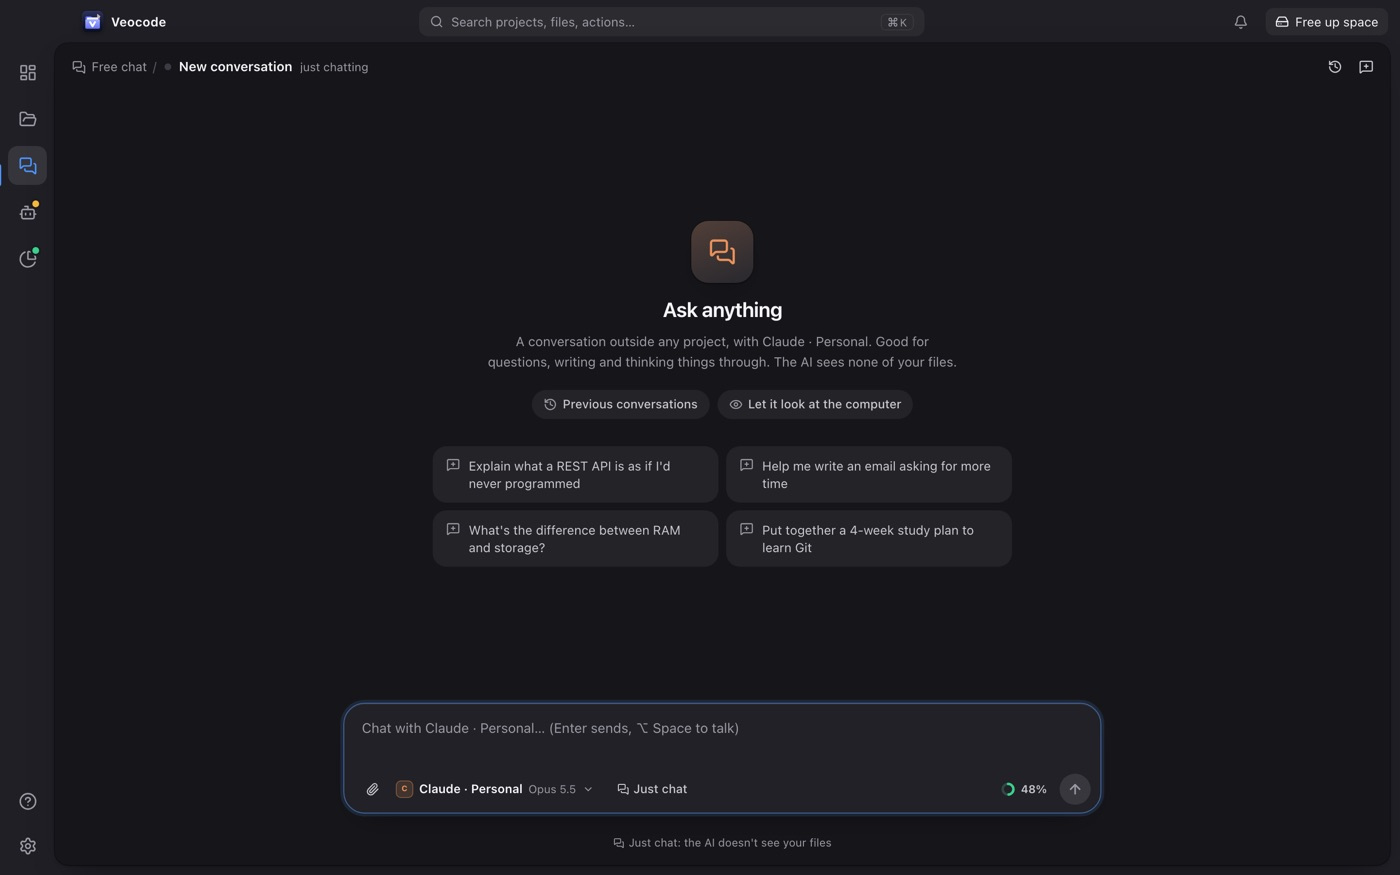
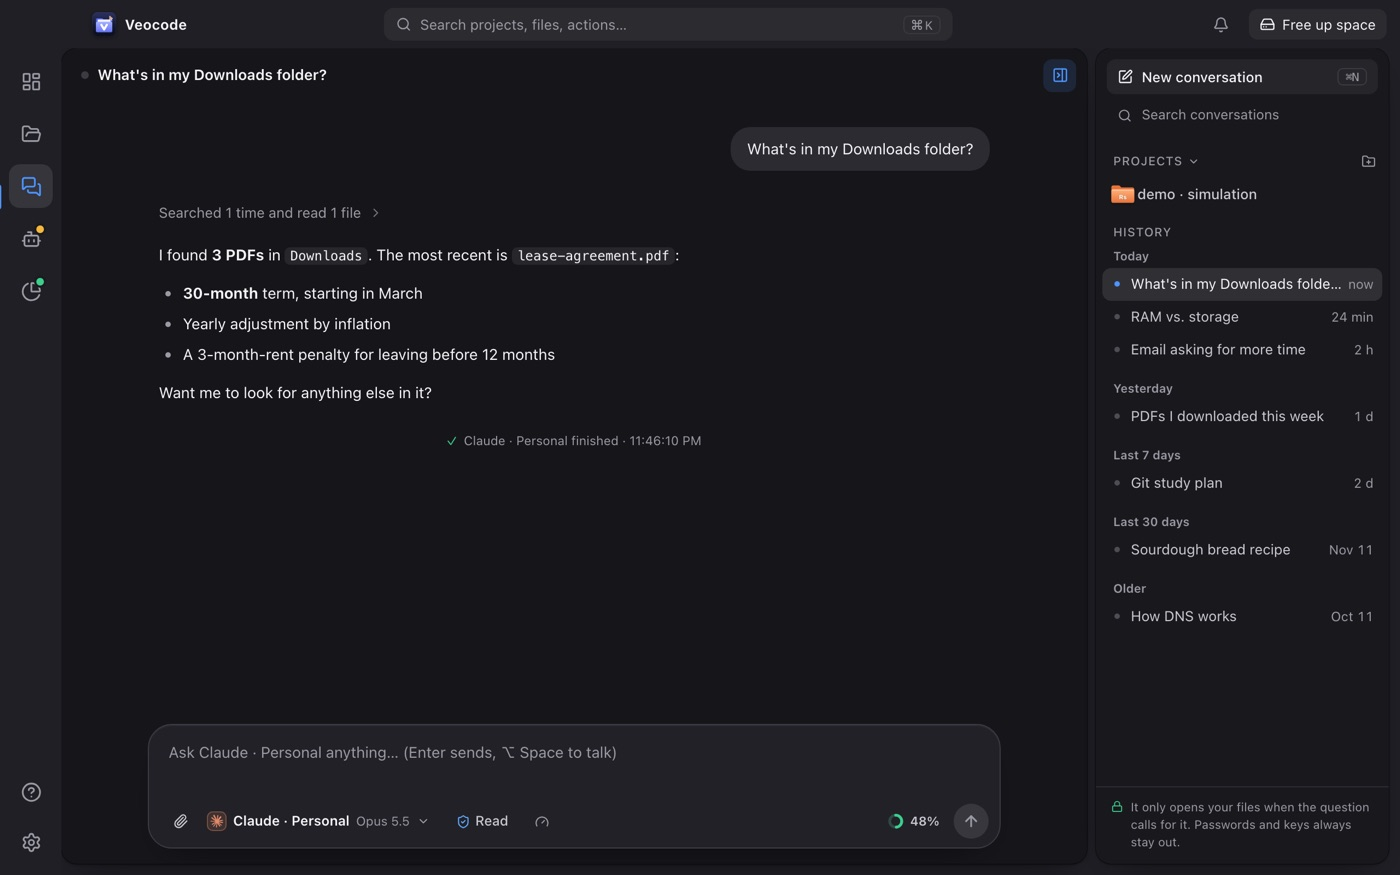
Veocode 0.7.0: browser panel, redesigned free chat
- apps.js points to v0.7.0.
- Projects list mentions the browser panel (pick an element, draw, the AI
  using the same browser).
- Free chat copy no longer describes the old "just talk / read" modes; new
  screenshot with the right panel.
- Cache-busters bumped for apps.js, strings.js and the chat shot.

diff --git a/veocode/strings.js b/veocode/strings.js
@@ -40,6 +40,8 @@ window.WITCH_STRINGS = Object.freeze({
   "Mapa do projeto: as áreas do código em nuvens coloridas, os arquivos como pontos e as ligações entre eles": ["Project map: the code's areas as colored clouds, files as points and the links between them", "Mapa del proyecto: las áreas del código en nubes de color, los archivos como puntos y los enlaces entre ellos", "Карта проекта: области кода — цветные облака, файлы — точки, и связи между ними"],
   "Chat dentro do app": ["Chat inside the app", "Chat dentro de la app", "Чат внутри приложения"],
   ": Claude Code, DeepSeek, APIs compatíveis com OpenAI ou Ollama, na pasta do projeto.": [": Claude Code, DeepSeek, OpenAI-compatible APIs or Ollama, in the project folder.", ": Claude Code, DeepSeek, APIs compatibles con OpenAI u Ollama, en la carpeta del proyecto.", ": Claude Code, DeepSeek, API, совместимые с OpenAI, или Ollama — в папке проекта."],
+  "Navegador para conferir": ["A browser to check the work", "Navegador para revisar", "Браузер для проверки"],
+  ": escolha um elemento ou risque a página e mande para a conversa. A IA usa o mesmo navegador.": [": pick an element or draw on the page and send it to the conversation. The AI uses the same browser.", ": elige un elemento o dibuja sobre la página y envíalo a la conversación. La IA usa el mismo navegador.", ": выберите элемент или порисуйте на странице и отправьте в разговор. ИИ пользуется тем же браузером."],
   "Nível de acesso de verdade": ["Real access levels", "Nivel de acceso de verdad", "Настоящие уровни доступа"],
   ": Leitura, Sugerir, Editar ou Total, gravado nas regras do próprio Claude Code.": [": Read only, Suggest, Edit or Full, written into Claude Code's own rules.", ": Lectura, Sugerir, Editar o Total, guardado en las reglas del propio Claude Code.", ": Чтение, Предложения, Правка или Полный, записанные в правила самого Claude Code."],
   "Espaço e memória": ["Space and memory", "Espacio y memoria", "Место и память"],
@@ -71,10 +73,10 @@ window.WITCH_STRINGS = Object.freeze({
   "Extras do Claude: receitas, atalhos, ajudantes e conexões": ["Claude extras: skills, commands, subagents and connections", "Extras de Claude: skills, comandos, subagentes y conexiones", "Дополнения Claude: скиллы, команды, субагенты и подключения"],
   "Contas e chat livre": ["Accounts and free chat", "Cuentas y chat libre", "Аккаунты и свободный чат"],
   "Todas as suas IAs, lado a lado.": ["All your AIs, side by side.", "Todas tus IA, lado a lado.", "Все ваши ИИ рядом."],
-  "Várias contas do Claude, cada uma com os limites do plano e o uso do dia, mais DeepSeek, APIs compatíveis com OpenAI e modelos locais. E um chat fora de qualquer projeto, que pode só conversar ou ler (só ler) a sua pasta pessoal.": ["Several Claude accounts, each with its plan limits and today's usage, plus DeepSeek, OpenAI-compatible APIs and local models. And a chat outside any project that can just talk or read (only read) your home folder.", "Varias cuentas de Claude, cada una con los límites del plan y el uso del día, además de DeepSeek, APIs compatibles con OpenAI y modelos locales. Y un chat fuera de cualquier proyecto, que puede solo conversar o leer (solo leer) tu carpeta personal.", "Несколько аккаунтов Claude, у каждого лимиты тарифа и расход за день, а также DeepSeek, API, совместимые с OpenAI, и локальные модели. И чат вне проектов, который может просто общаться или читать (только читать) вашу домашнюю папку."],
+  "Várias contas do Claude, cada uma com os limites do plano e o uso do dia, mais DeepSeek, APIs compatíveis com OpenAI e modelos locais. E um chat fora de qualquer projeto, que conversa normalmente e olha o seu Mac quando a pergunta pede, com um selo de permissão que começa em Leitura.": ["Several Claude accounts, each with its plan limits and today's usage, plus DeepSeek, OpenAI-compatible APIs and local models. And a chat outside any project that just talks and looks at your Mac when the question calls for it, with a permission badge that starts at Read.", "Varias cuentas de Claude, cada una con los límites del plan y el uso del día, además de DeepSeek, APIs compatibles con OpenAI y modelos locales. Y un chat fuera de cualquier proyecto, que conversa con normalidad y mira tu Mac cuando la pregunta lo pide, con un sello de permiso que empieza en Lectura.", "Несколько аккаунтов Claude, у каждого лимиты тарифа и расход за день, а также DeepSeek, API, совместимые с OpenAI, и локальные модели. И чат вне проектов, который просто общается и заглядывает в ваш Mac, когда этого требует вопрос, со значком доступа, который начинается с «Чтения»."],
   "Contas e IAs com os limites de cada plano": ["Accounts and AIs with each plan's limits", "Cuentas e IA con los límites de cada plan", "Аккаунты и ИИ с лимитами каждого тарифа"],
   "Contas e IAs": ["Accounts and AIs", "Cuentas e IA", "Аккаунты и ИИ"],
-  "Chat livre com a escolha da IA na caixa de mensagem": ["Free chat with the AI picker in the message box", "Chat libre con la elección de IA en la caja de mensaje", "Свободный чат с выбором ИИ в поле сообщения"],
+  "Chat livre com o histórico e os projetos no painel da direita": ["Free chat with history and projects in the right panel", "Chat libre con el historial y los proyectos en el panel derecho", "Свободный чат с историей и проектами на правой панели"],
   "Chat livre": ["Free chat", "Chat libre", "Свободный чат"],
   "Ele só olha. Quem decide é você.": ["It only watches. You decide.", "Solo observa. Tú decides.", "Он только наблюдает. Решаете вы."],
   "Tudo no seu Mac": ["Everything on your Mac", "Todo en tu Mac", "Всё на вашем Mac"],

diff --git a/veocode/index.html b/veocode/index.html
@@ -93,6 +93,7 @@
           <li><b>Chat dentro do app</b>: Claude Code, DeepSeek, APIs compatíveis com OpenAI ou Ollama, na pasta do projeto.</li>
           <li><b>Parar de verdade</b>: o botão Parar interrompe a IA e tudo o que ela abriu, até conversas rodando fora do Veocode, no Terminal ou no editor.</li>
           <li><b>Grupos e nuvem</b>: junte as conversas por assunto e veja as sessões do Claude Code na nuvem ao lado das locais.</li>
+          <li><b>Navegador para conferir</b>: escolha um elemento ou risque a página e mande para a conversa. A IA usa o mesmo navegador.</li>
           <li><b>Nível de acesso de verdade</b>: Leitura, Sugerir, Editar ou Total, gravado nas regras do próprio Claude Code.</li>
         </ul>
       </div>
@@ -163,10 +164,10 @@
   </section>
 
   <section class="section container wu-chapter">
-    <div class="section-head"><p class="wu-kicker">Contas e chat livre</p><h2>Todas as suas IAs, lado a lado.</h2><p>Várias contas do Claude, cada uma com os limites do plano e o uso do dia, mais DeepSeek, APIs compatíveis com OpenAI e modelos locais. E um chat fora de qualquer projeto, que pode só conversar ou ler (só ler) a sua pasta pessoal.</p></div>
+    <div class="section-head"><p class="wu-kicker">Contas e chat livre</p><h2>Todas as suas IAs, lado a lado.</h2><p>Várias contas do Claude, cada uma com os limites do plano e o uso do dia, mais DeepSeek, APIs compatíveis com OpenAI e modelos locais. E um chat fora de qualquer projeto, que conversa normalmente e olha o seu Mac quando a pergunta pede, com um selo de permissão que começa em Leitura.</p></div>
     <div class="wu-pair" style="max-width:1100px;margin:0 auto">
       <figure><button class="shot" type="button"><img src="../assets/shots/veocode/accounts.jpg?v=202611201500" alt="Contas e IAs com os limites de cada plano" loading="lazy" width="1400" height="875"></button><figcaption>Contas e IAs</figcaption></figure>
-      <figure><button class="shot" type="button"><img src="../assets/shots/veocode/chat.jpg?v=202611201500" alt="Chat livre com a escolha da IA na caixa de mensagem" loading="lazy" width="1400" height="875"></button><figcaption>Chat livre</figcaption></figure>
+      <figure><button class="shot" type="button"><img src="../assets/shots/veocode/chat.jpg?v=202611202350" alt="Chat livre com o histórico e os projetos no painel da direita" loading="lazy" width="1400" height="875"></button><figcaption>Chat livre</figcaption></figure>
     </div>
   </section>
 
@@ -256,11 +257,11 @@
   </div>
 </footer>
 
-<script src="../apps.js?v=202611201500"></script>
+<script src="../apps.js?v=202611202350"></script>
 <script src="../install-command.js?v=202611071600"></script>
 <script src="../script.js?v=202611071700"></script>
 <script src="../i18n-strings.js?v=202611201500"></script>
-<script src="strings.js?v=202611201500"></script>
+<script src="strings.js?v=202611202350"></script>
 <script src="page.js?v=202610271200"></script>
 <script src="../i18n.js?v=202610271200"></script>
 <script src="../effects.js?v=202611061900"></script>

diff --git a/apps.js b/apps.js
@@ -19,7 +19,7 @@ window.WITCH_APPS = Object.freeze({
   rubbishnotes: Object.freeze({ repo: 'rubbish-notes', tag: 'v1.2.1',        file: 'RubbishNotes-1.2.1.dmg', published: true, app: 'Rubbish Notes.app' }),
   excaliburforms: Object.freeze({ repo: 'ExcaliburForms', tag: 'v1.0.0',     file: 'ExcaliburForms-1.0.0.dmg', published: true, app: 'ExcaliburForms.app' }),
   wineup:       Object.freeze({ repo: 'wineup-player', tag: 'v1.1.1',      file: 'WineupPlayer-1.1.1.dmg', published: true, app: 'Wineup Player.app' }),
-  veocode:      Object.freeze({ repo: 'Veocode',       tag: 'v0.6.0',        file: 'Veocode-0.6.0.dmg',      published: true, app: 'Veocode.app' }),
+  veocode:      Object.freeze({ repo: 'Veocode',       tag: 'v0.7.0',        file: 'Veocode-0.7.0.dmg',      published: true, app: 'Veocode.app' }),
   kaveelsbook:  Object.freeze({ repo: 'kaveels-book-studio', tag: 'v0.1.2', file: 'KaveelsBookStudio-mac.dmg', published: true, app: "Kaveel's Book Studio.app" }),
   santovideoplayer: Object.freeze({ repo: 'santo-video-player', tag: 'v2.0.2', file: 'SantoVideoPlayer-2.0.2.dmg', published: true, app: 'Santo Video Player.app' }),
   manhwafy:     Object.freeze({ repo: 'ManhwaFy',      tag: 'v0.1.0',        file: 'ManhwaFy-0.1.0.dmg',     published: true, app: 'ManhwaFy.app' }),

diff --git a/index.html b/index.html
@@ -1561,7 +1561,7 @@
   </div>
 </footer>
 
-<script src="apps.js?v=202611201500"></script>
+<script src="apps.js?v=202611202350"></script>
 <script src="install-command.js?v=202611071600"></script>
 <script src="script.js?v=202611071700"></script>
 <script src="i18n-strings.js?v=202611201500"></script>
